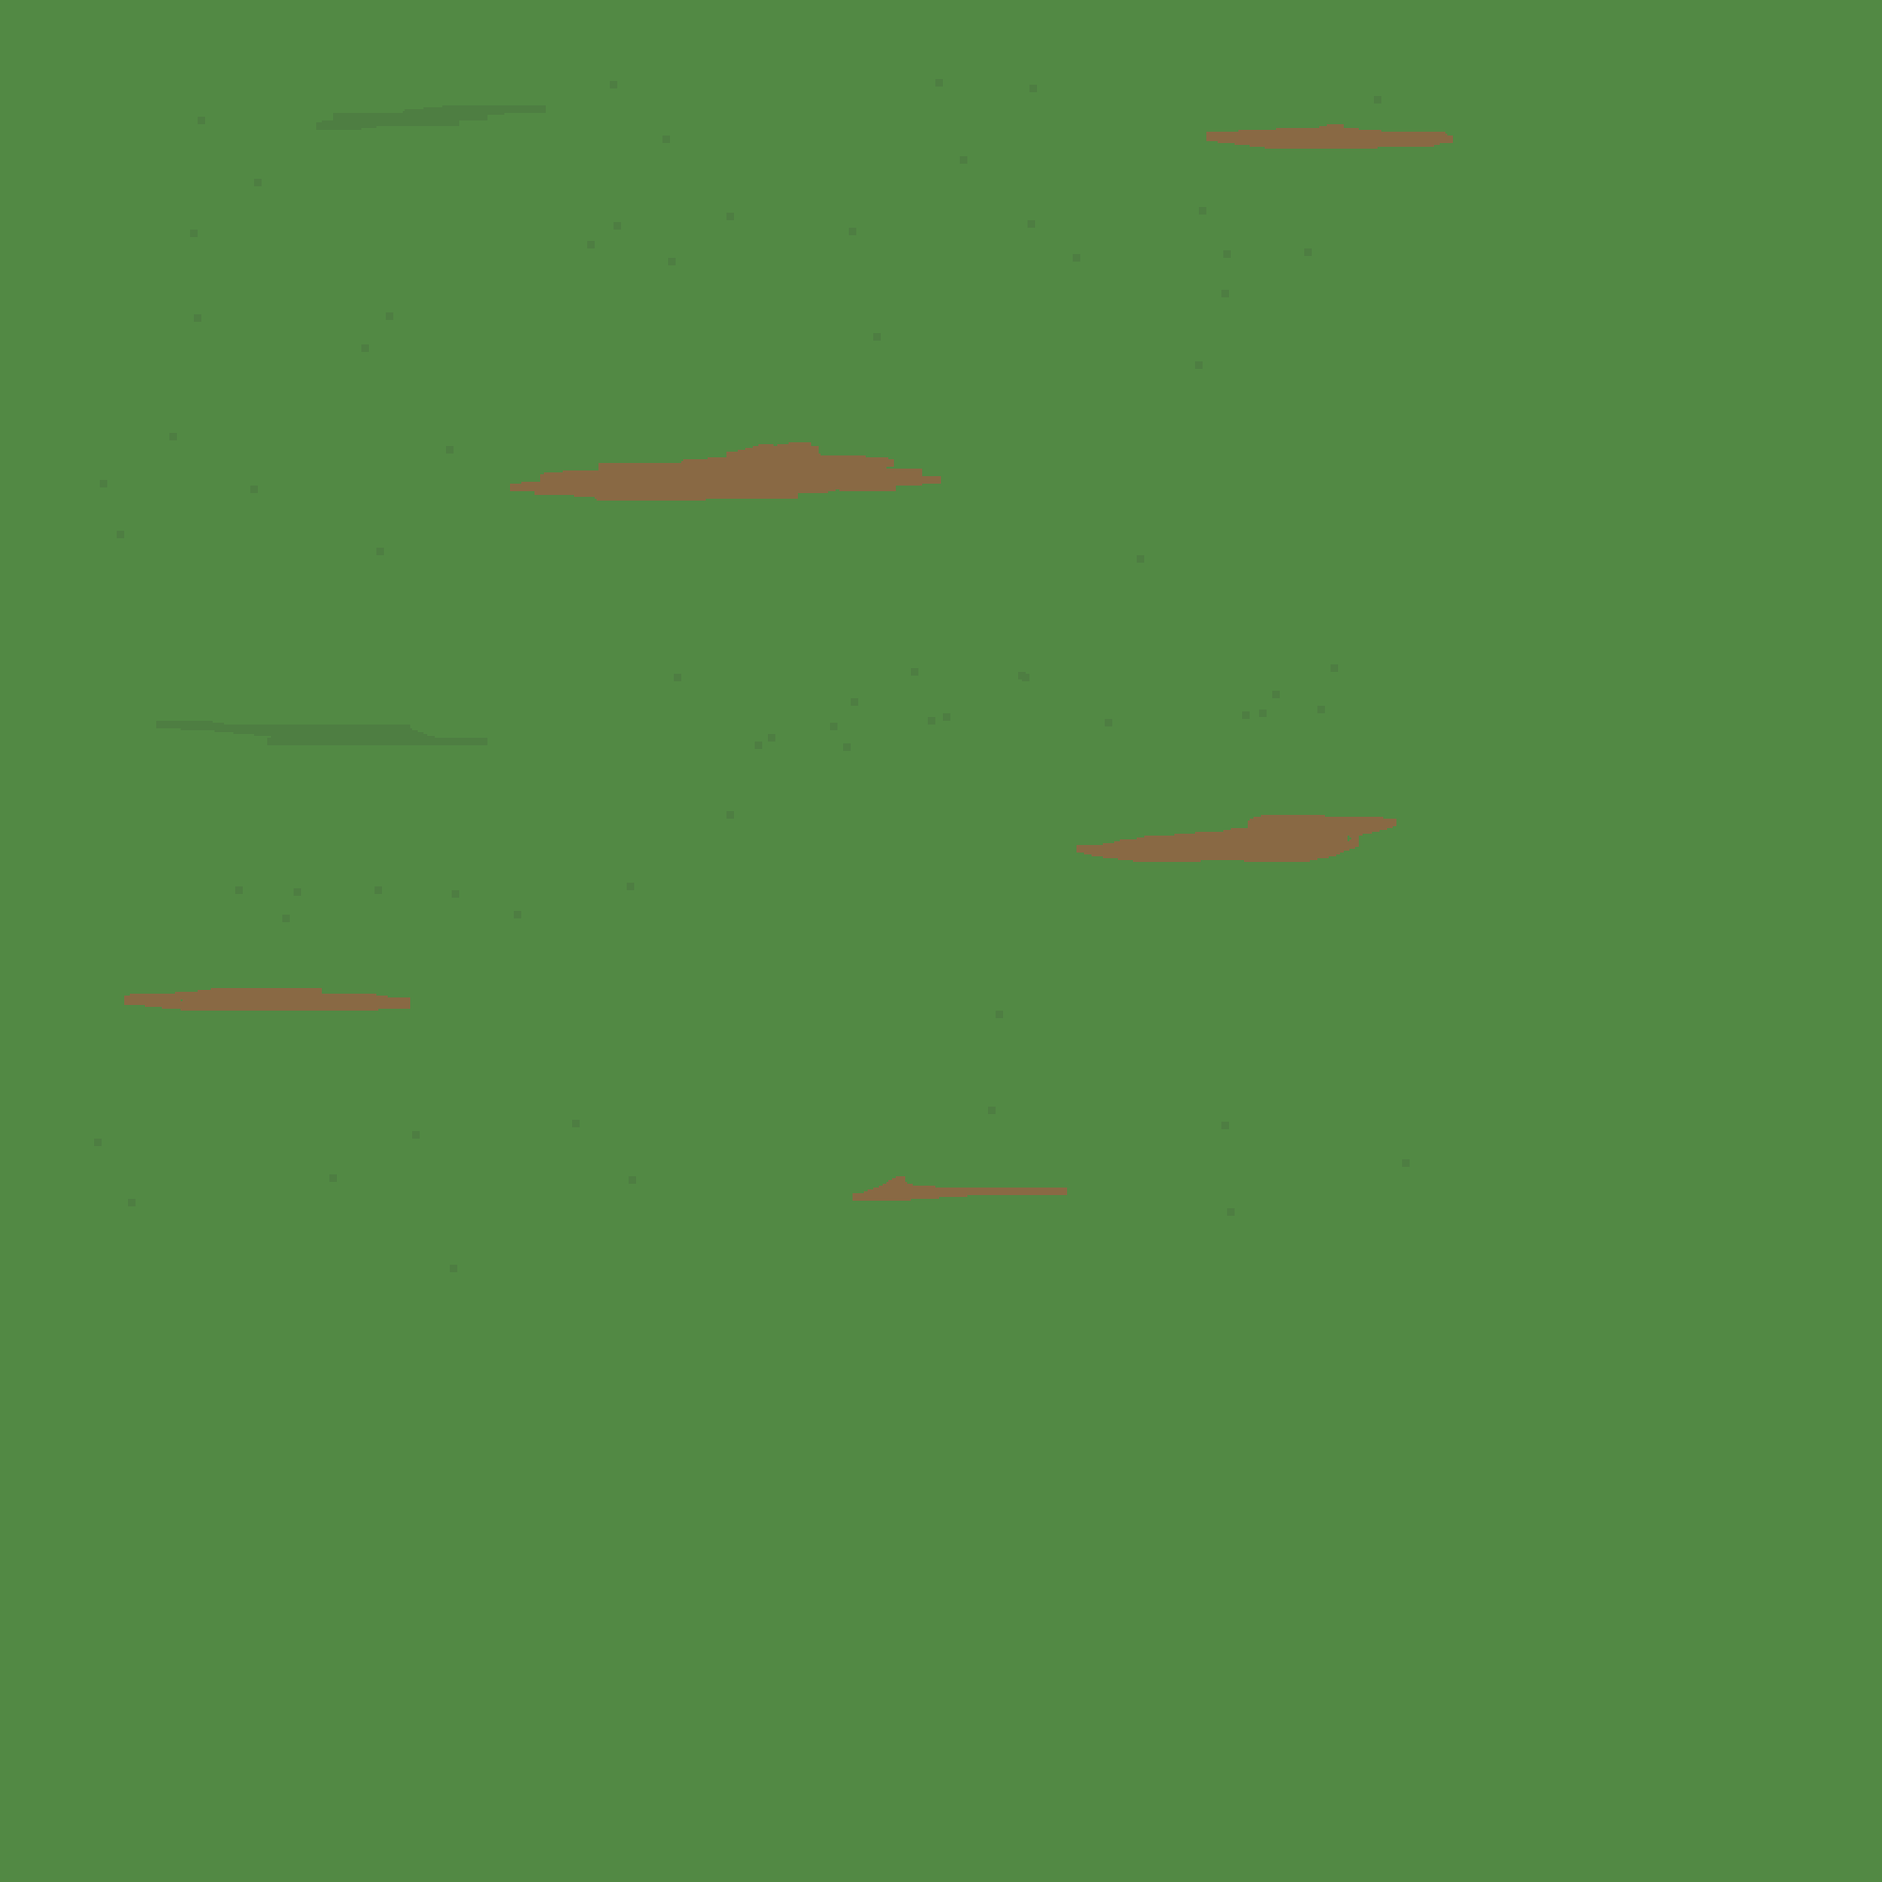
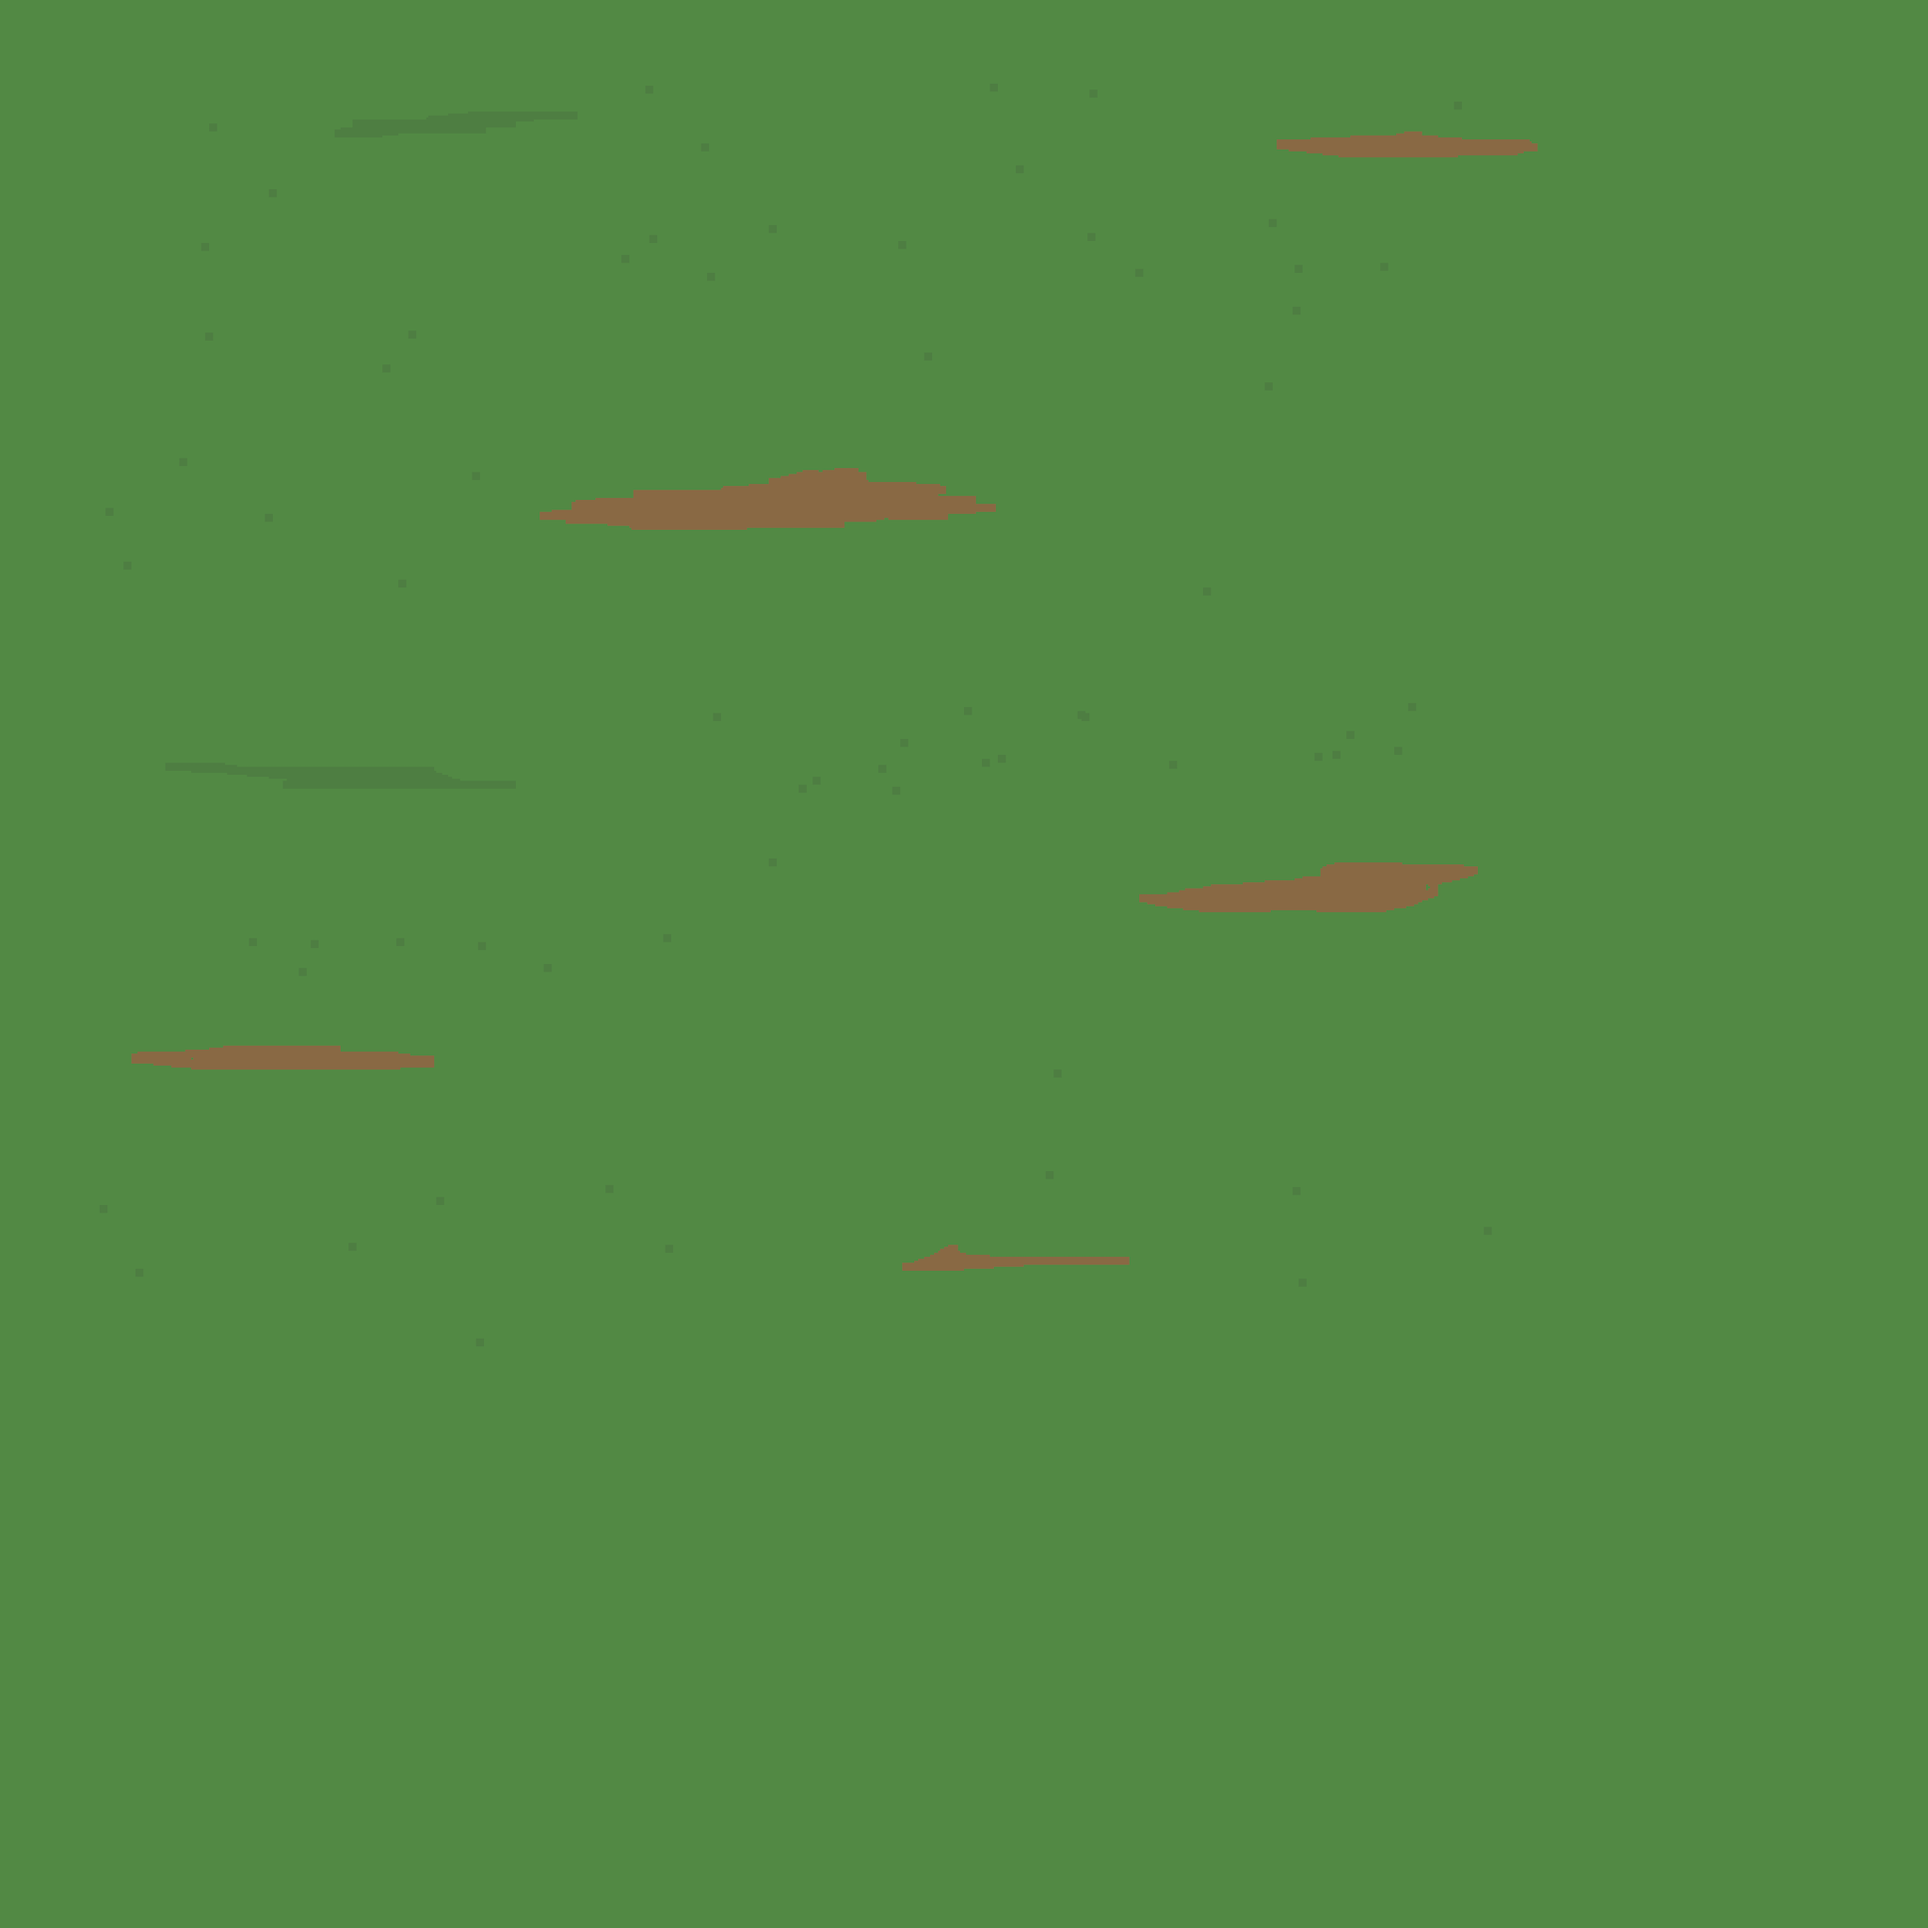
Fixed little graphical glitch

diff --git a/src/com/ludumdare40/Background.java b/src/com/ludumdare40/Background.java
@@ -12,11 +12,11 @@ public class Background {
 	private ArrayList<Tiles> tiles;
 	
 	public Background(int width, int height, Image img) {
-		int numAcross = width/(img.getWidth()-30);
-		int numUp = height/(img.getHeight()-30);
+		int numAcross = width/(img.getWidth());
+		int numUp = height/(img.getHeight());
 		tiles = new ArrayList<Tiles>();
-		for(int i = 0; i < width; i += img.getWidth()-30) {
-			for(int j = 0; j < height; j+= img.getHeight()-30) {
+		for(int i = 0; i < width; i += img.getWidth()) {
+			for(int j = 0; j < height; j+= img.getHeight()) {
 				tiles.add(new Tiles(i,j,img));
 			}
 		}

diff --git a/src/com/ludumdare40/Camera.java b/src/com/ludumdare40/Camera.java
@@ -32,12 +32,13 @@ public class Camera {
 		eList.addAll(creatureManager.getCreatures());
 		Collections.sort(eList, Entity.compareByY());
 		eList.addAll(creatureManager.getBullets());
-
+		
+		gc.setVSync(true);
 
 		ArrayList<Tiles> bTiles = bg.getTiles();
 		for(Tiles t: bTiles) {
 			if (canSee(t)) {
-				t.render(g,(int)t.getX()-x,(int)t.getY() - y);
+				t.render(g,t.getX()-x,t.getY() - y);
 			}
 		}
 		

diff --git a/src/com/ludumdare40/NameGenerator.java b/src/com/ludumdare40/NameGenerator.java
@@ -34,4 +34,9 @@ public class NameGenerator implements Iterable<String>, Iterator<String> {
     public String next() {
         return names.get((int)(Math.random() * names.size() ));
     }
+	@Override
+	public void remove() {
+		// TODO Auto-generated method stub
+		
+	}
 }
